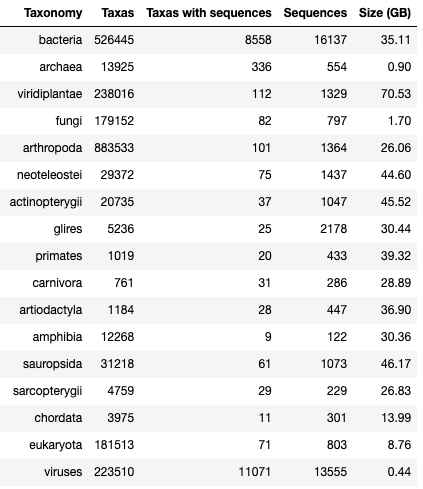
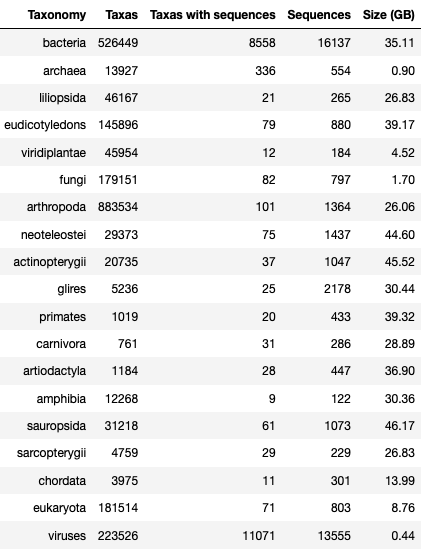
Updating docs

diff --git a/README.md b/README.md
@@ -2,7 +2,7 @@ GTax
 ====
 
 **GTax** python package provides tools for the creation of the GTax sequence-based database. This database includes
-one assembly per organism deposited in the NCBI Genomes database. The sequences are organized by 17 taxonomic levels
+one assembly per organism deposited in the NCBI Genomes database. The sequences are organized by 19 taxonomic levels
 from *superkindom* to *clades*. Python pickle files are also provided with a graph data structure for the taxonomic 
 tree.
 
